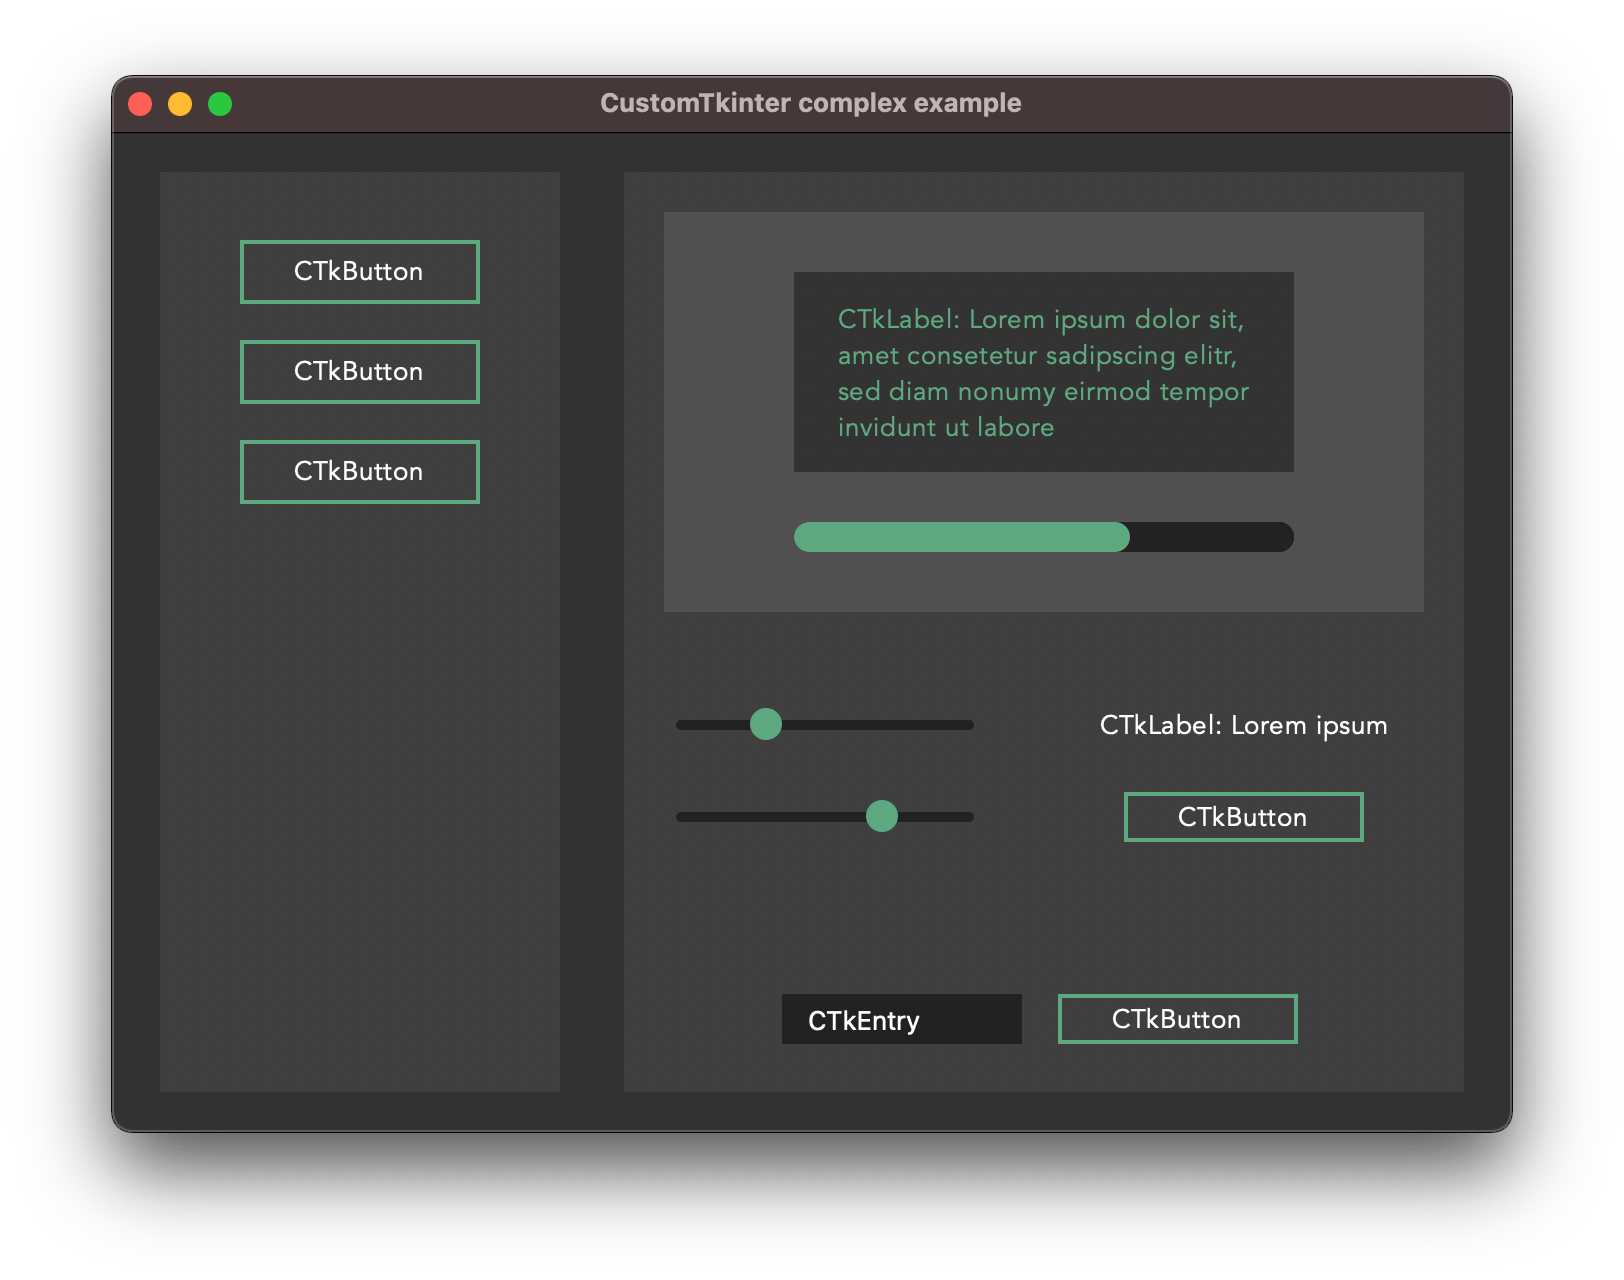
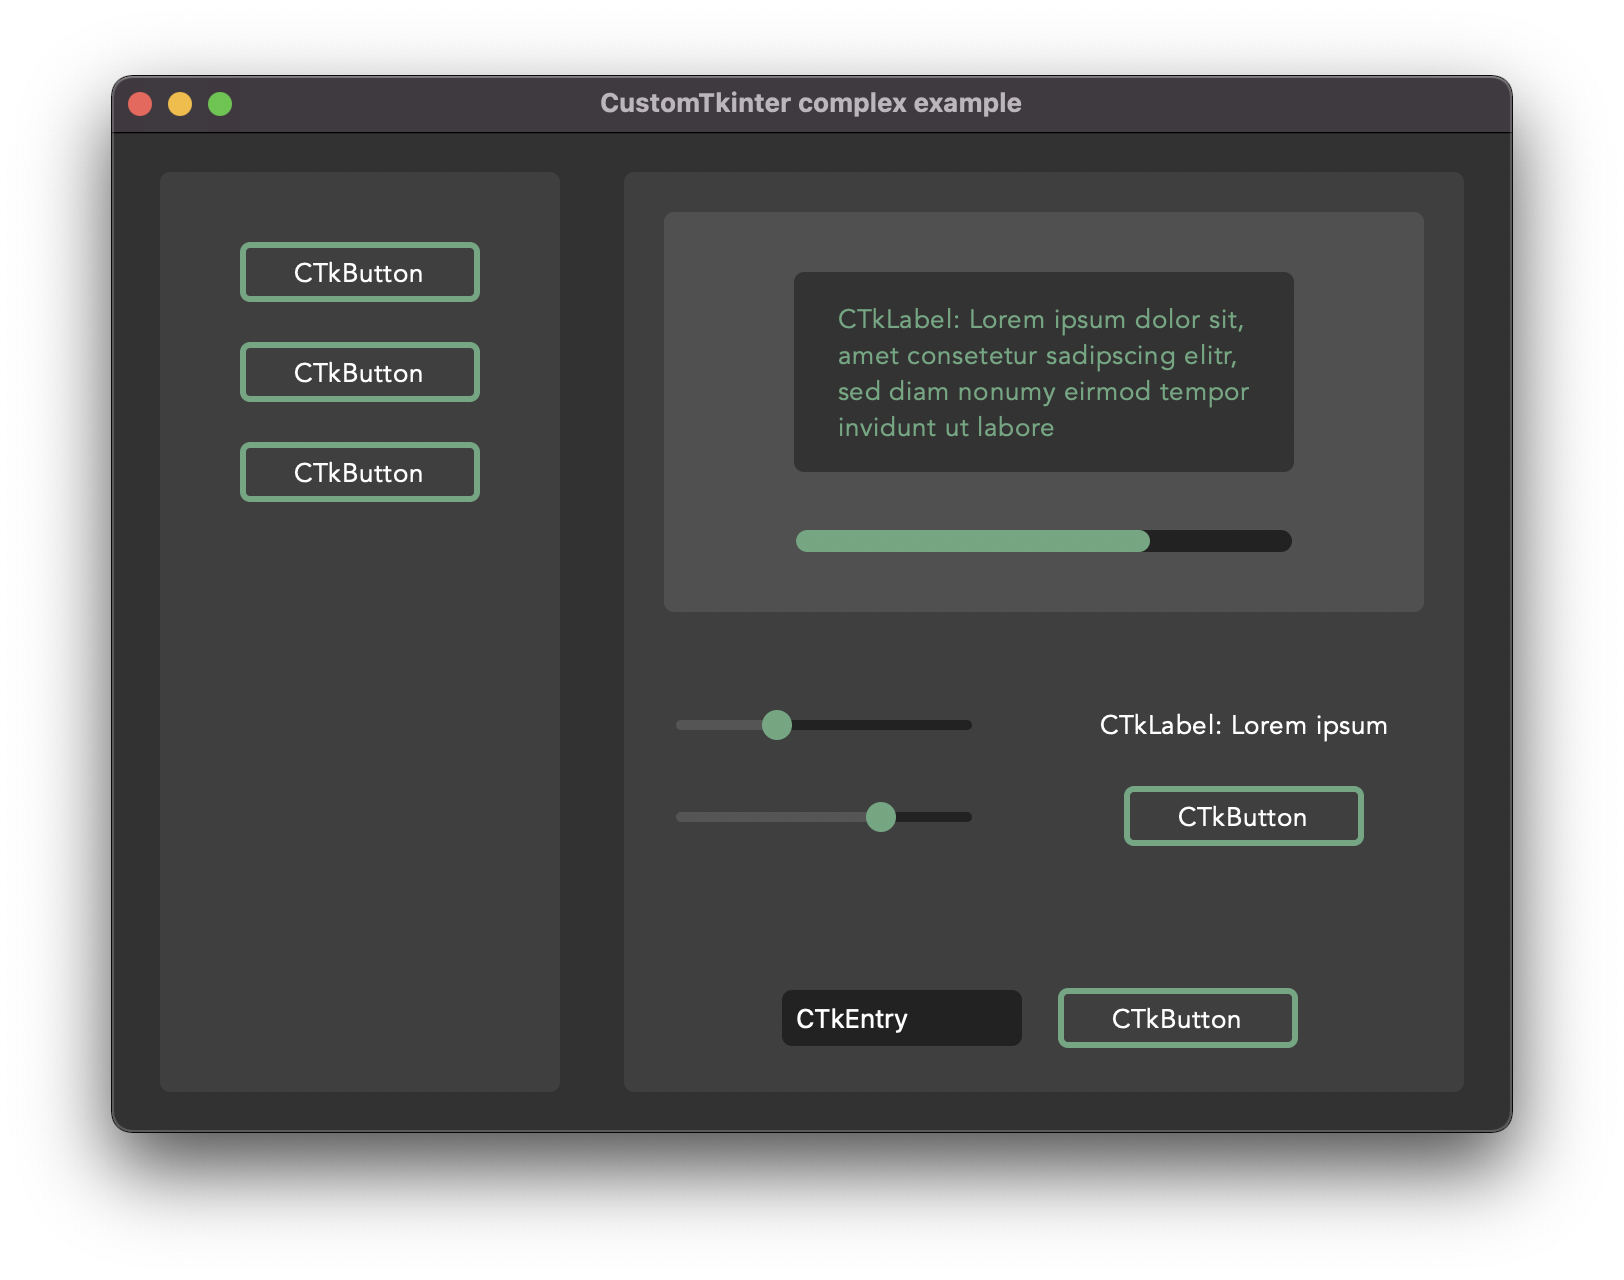
changed images in Readme

diff --git a/examples/example_background_image.py b/examples/example_background_image.py
@@ -42,20 +42,20 @@ class App(customtkinter.CTk):
                                             corner_radius=0)
         self.frame.place(relx=0.5, rely=0.5, anchor=tkinter.CENTER)
 
-        self.label_1 = customtkinter.CTkLabel(master=self.frame, corner_radius=10, width=200, height=60,
+        self.label_1 = customtkinter.CTkLabel(master=self.frame, corner_radius=6, width=200, height=60,
                                               fg_color=("gray70", "gray20"), text="CustomTkinter\ninterface example")
         self.label_1.place(relx=0.5, rely=0.3, anchor=tkinter.CENTER)
 
-        self.entry_1 = customtkinter.CTkEntry(master=self.frame, corner_radius=10, width=200)
+        self.entry_1 = customtkinter.CTkEntry(master=self.frame, corner_radius=20, width=200)
         self.entry_1.place(relx=0.5, rely=0.52, anchor=tkinter.CENTER)
         self.entry_1.insert(0, "username")
 
-        self.entry_2 = customtkinter.CTkEntry(master=self.frame, corner_radius=10, width=200, show="*")
+        self.entry_2 = customtkinter.CTkEntry(master=self.frame, corner_radius=20, width=200, show="*")
         self.entry_2.place(relx=0.5, rely=0.6, anchor=tkinter.CENTER)
         self.entry_2.insert(0, "password")
 
         self.button_2 = customtkinter.CTkButton(master=self.frame, text="Login",
-                                                corner_radius=10, command=self.button_event, width=200)
+                                                corner_radius=6, command=self.button_event, width=200)
         self.button_2.place(relx=0.5, rely=0.7, anchor=tkinter.CENTER)
 
     def button_event(self):

diff --git a/customtkinter/customtkinter_entry.py b/customtkinter/customtkinter_entry.py
@@ -75,7 +75,7 @@ class CTkEntry(tkinter.Frame):
                                    width=1,
                                    highlightthicknes=0,
                                    **kwargs)
-        self.entry.grid(column=0, row=0, sticky="we", padx=self.corner_radius if self.corner_radius >= 5 else 5)
+        self.entry.grid(column=0, row=0, sticky="we", padx=self.corner_radius if self.corner_radius >= 6 else 6)
 
         self.fg_parts = []
 
@@ -206,7 +206,7 @@ class CTkEntry(tkinter.Frame):
             elif self.corner_radius * 2 > self.width:
                 self.corner_radius = self.width / 2
 
-            self.entry.grid(column=0, row=0, sticky="we", padx=self.corner_radius if self.corner_radius >= 5 else 5)
+            self.entry.grid(column=0, row=0, sticky="we", padx=self.corner_radius if self.corner_radius >= 6 else 6)
             del kwargs["corner_radius"]
             require_redraw = True
 

diff --git a/customtkinter/customtkinter_color_manager.py b/customtkinter/customtkinter_color_manager.py
@@ -19,7 +19,6 @@ class CTkColorManager:
 
     @classmethod
     def initialize_color_theme(cls, theme_name):
-        print("set theme", theme_name)
 
         if theme_name.lower() == "blue":
             cls.WINDOW_BG = ("#ECECEC", "#323232")  # macOS standard light and dark window bg colors

diff --git a/setup.py b/setup.py
@@ -19,7 +19,7 @@ def read(filename):
 
 
 setup(name="customtkinter",
-      version="1.8",
+      version="2.0",
       author="Tom Schimansky",
       license="Creative Commons Zero v1.0 Universal",
       url="https://github.com/TomSchimansky/CustomTkinter",

diff --git a/customtkinter/__init__.py b/customtkinter/__init__.py
@@ -1,4 +1,4 @@
-__version__ = "1.8"
+__version__ = "2.0"
 
 from .customtkinter_button import CTkButton
 from .customtkinter_slider import CTkSlider

diff --git a/Readme.md b/Readme.md
@@ -136,11 +136,13 @@ also look acceptable on Windows. Maybe you can use the parameters for
 
 Example 1:```examples/complex_example.py```
 
-![](documentation_images/Windows_light.png)
+![](documentation_images/Windows_complex_light.png)
+
+![](documentation_images/Windows_complex_dark.png)
 
 Example 2: ```examples/complex_example_custom_colors.py```
 
-![](documentation_images/Windows_dark.png)
+![](documentation_images/Windows_complex_other_style.png)
 
 ### CTkButton with images
 It's also possible to put an image on a CTkButton. You just have to
